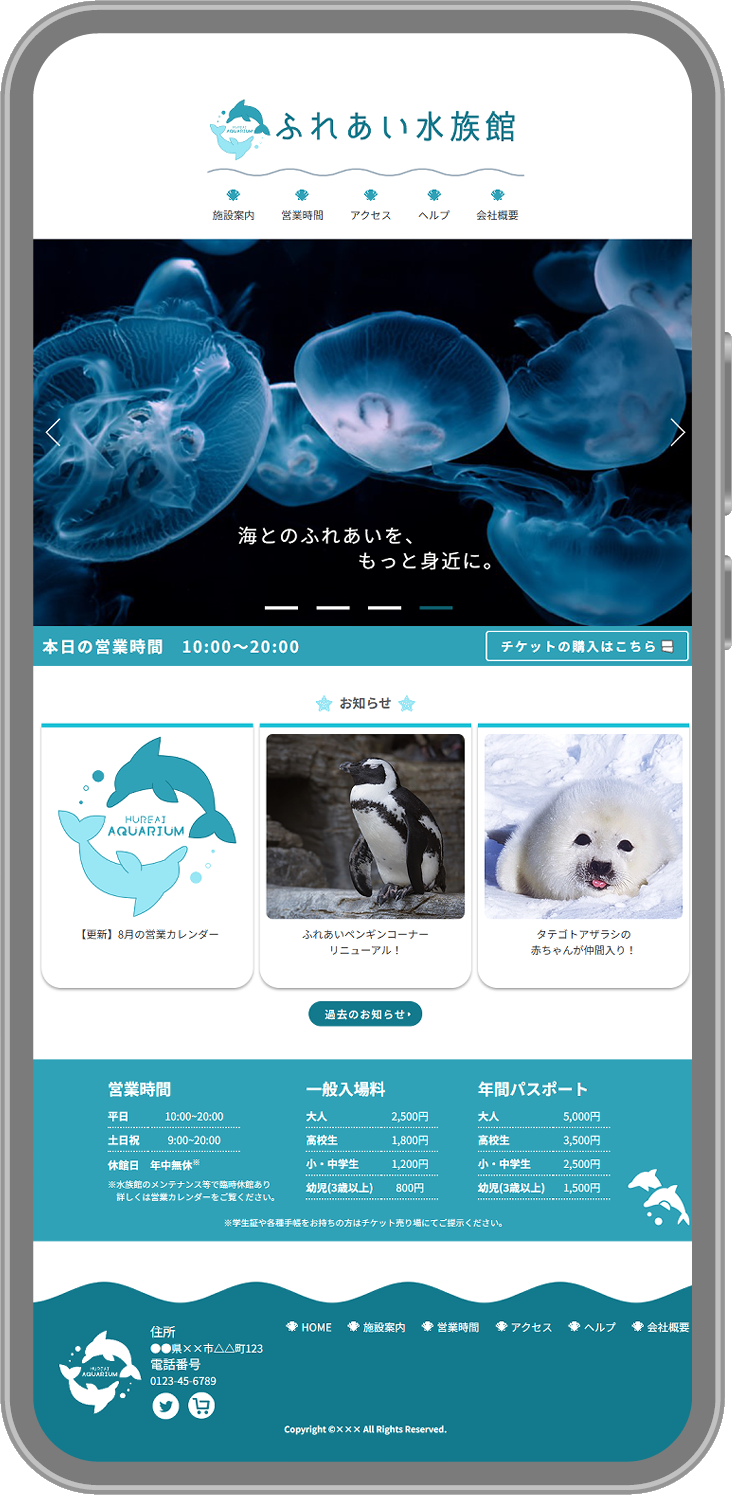
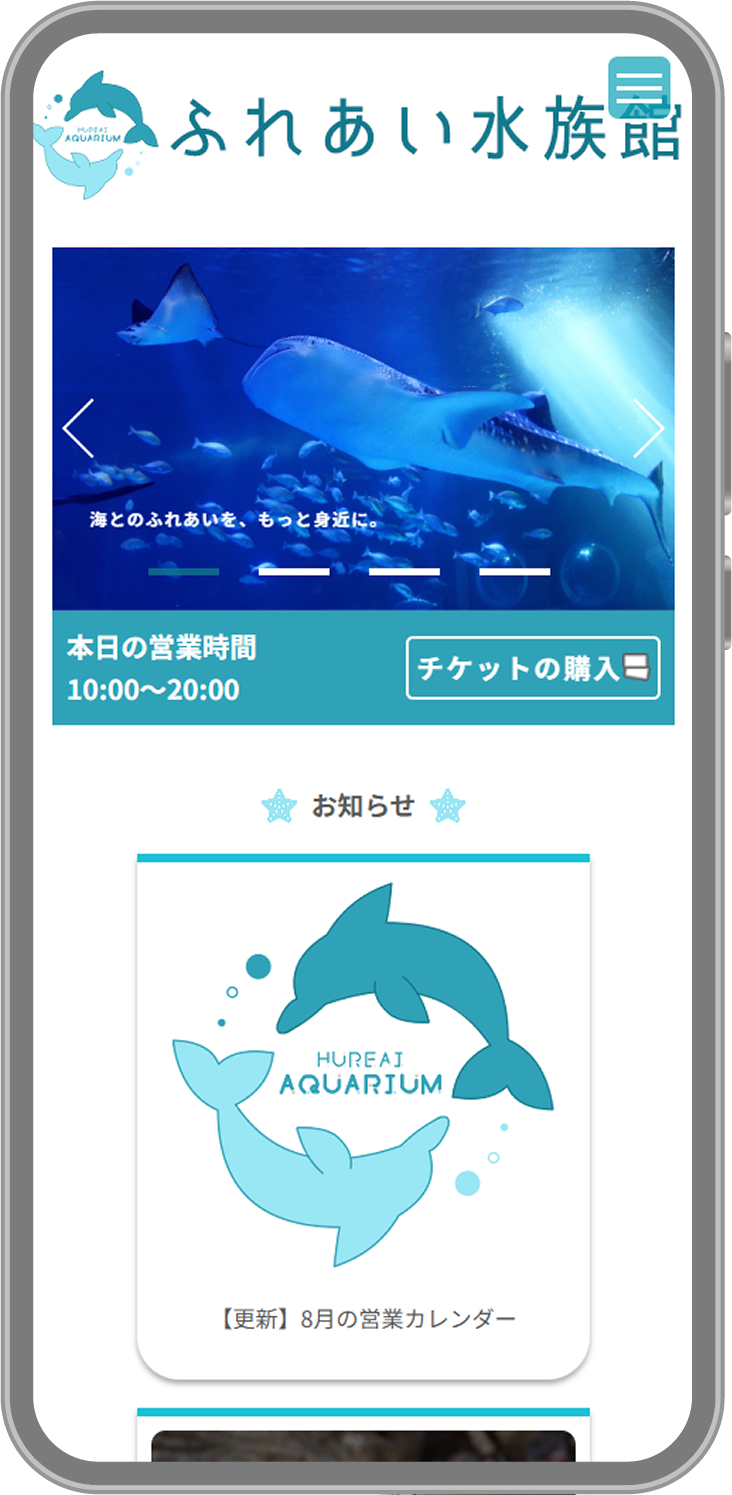
Add files via upload

diff --git a/index.html b/index.html
@@ -193,14 +193,13 @@
                             <dd>職業訓練課題として隔週進行で制作</dd>
                         <dt>使用スキル</dt>
                             <dd>－情報構造設計</dd>
-                            <dd>－一部レスポンシブ対応</dd>
+                            <dd>－レスポンシブ対応</dd>
                             <dd>－CSS・JSアニメーション</dd>
                         <dt>目的</dt>
                             <dd>来館促進 / ファミリー層への訴求</dd>
                         <dt>工夫点</dt>
-                            <dd>親しみやすさを重視したデザイン設計</dd>
-                        <dt>改善点</dt>
-                            <dd>今後レスポンシブ対応予定</dd>
+                            <dd>－親しみやすさを重視したデザイン設計</dd>
+                            <dd>－課題制作後にレスポンシブへ対応</dd>
                         </dl>
                         </div>
                     </div>
